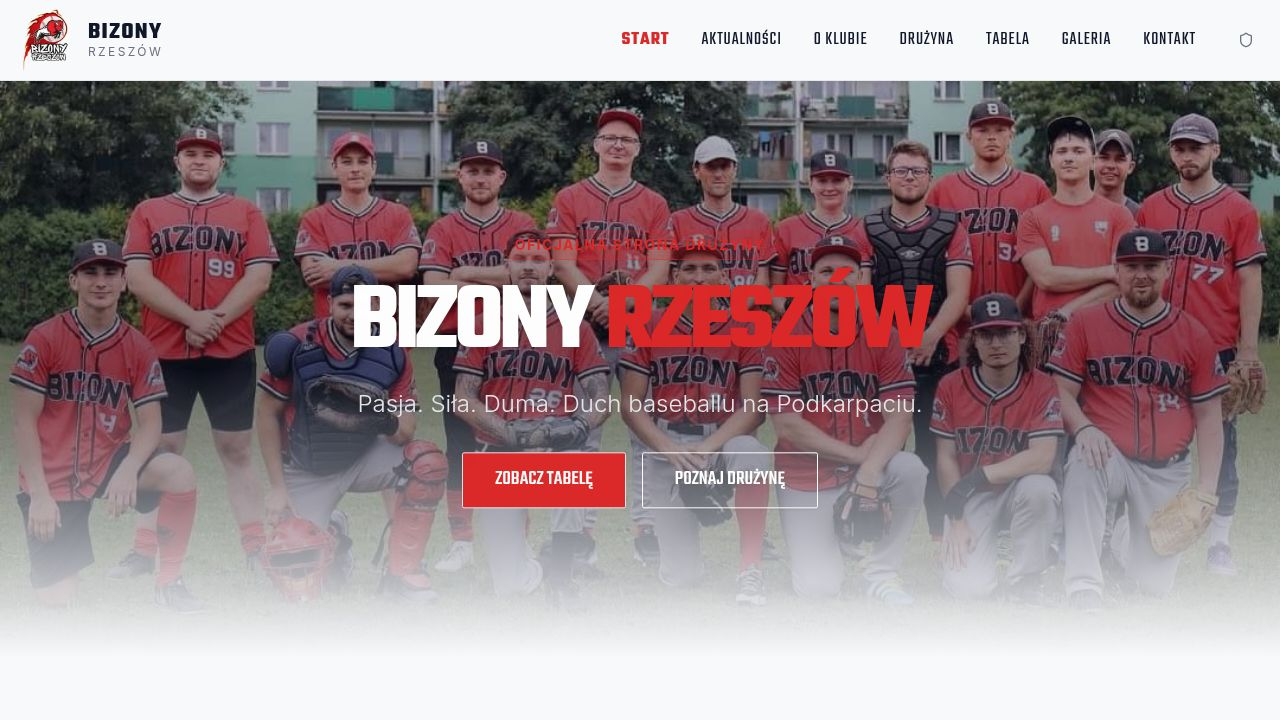
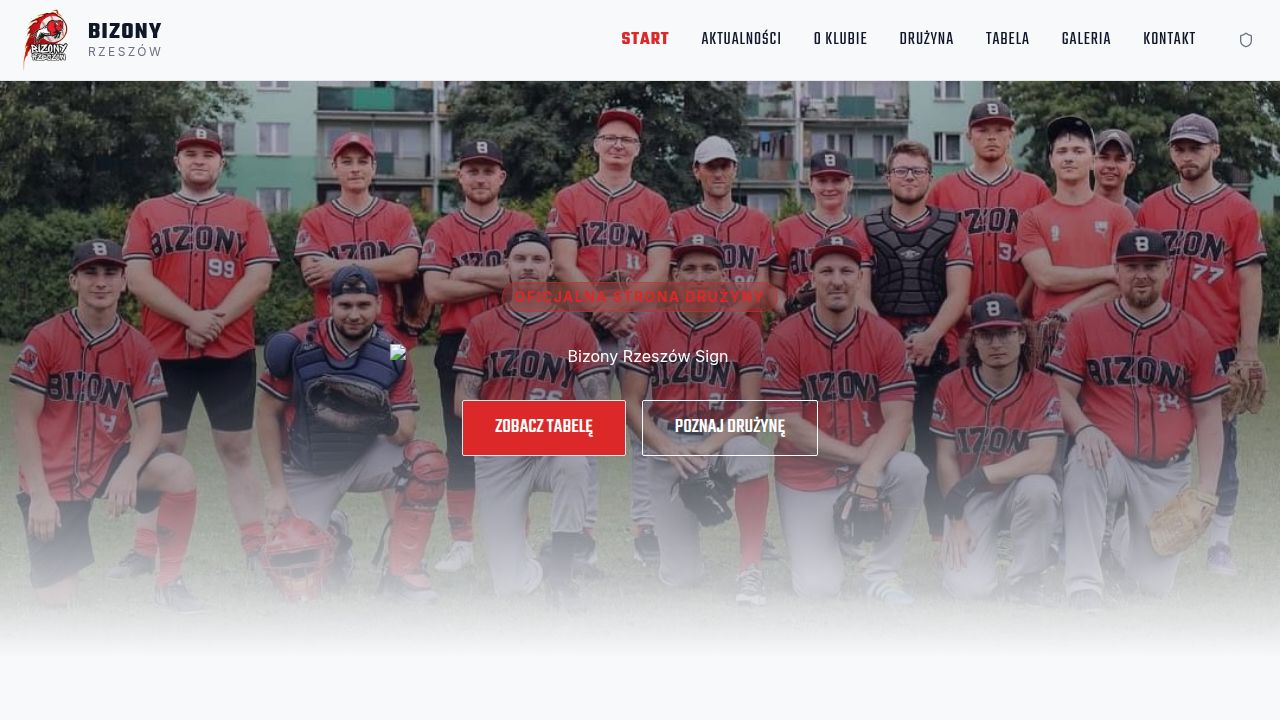
Update homepage hero section with new official sign
Replaces the "Bizony Rzeszów" text with a new logo image in the hero section of the homepage and adjusts the span styling for the tagline.

Replit-Commit-Author: Agent
Replit-Commit-Session-Id: 43685fe8-601e-4607-95e8-7399da8ee240
Replit-Commit-Checkpoint-Type: full_checkpoint
Replit-Commit-Event-Id: e3576450-65ee-4423-b563-832e4bbabf99
Replit-Commit-Screenshot-Url: https://storage.googleapis.com/screenshot-production-us-central1/f80b9050-ae2f-4224-8ab7-2b6be34f3b78/43685fe8-601e-4607-95e8-7399da8ee240/TfAEgsb
Replit-Helium-Checkpoint-Created: true

Changed region(s): [[0.25, 0.3056, 0.75, 0.5194], [0.2812, 0.55, 0.7188, 0.7333]]

diff --git a/client/src/pages/Home.tsx b/client/src/pages/Home.tsx
@@ -5,6 +5,7 @@ import { Card, CardContent } from "@/components/ui/card";
 import { ArrowRight, Calendar, Trophy } from "lucide-react";
 import heroImg from "@assets/1771073775355_1771144286177.jpg";
 import logo from "@assets/bizony--rSs6oZ4_1770847193876.webp";
+import mainSign from "@assets/BIZONY-_4__1771227737965.webp";
 import { motion } from "framer-motion";
 
 export default function Home() {
@@ -31,15 +32,16 @@ export default function Home() {
             animate={{ opacity: 1, y: 0 }}
             transition={{ duration: 0.8 }}
           >
-            <span className="inline-block py-1 px-3 border border-primary/50 bg-primary/20 text-primary backdrop-blur-md rounded-full text-sm font-bold uppercase tracking-widest mb-4">
+            <span className="inline-block py-1 px-3 border border-primary/50 bg-primary/20 text-primary backdrop-blur-md rounded-full text-sm font-bold uppercase tracking-widest mb-8">
               Oficjalna Strona Drużyny
             </span>
-            <h1 className="text-6xl md:text-8xl font-display font-bold uppercase tracking-tighter drop-shadow-lg">
-              Bizony <span className="text-primary">Rzeszów</span>
-            </h1>
-            <p className="text-xl md:text-2xl font-light text-gray-200 max-w-2xl mx-auto mt-4 mb-8">
-              Pasja. Siła. Duma. Duch baseballu na Podkarpaciu.
-            </p>
+            <div className="flex justify-center mb-8">
+              <img 
+                src={mainSign} 
+                alt="Bizony Rzeszów Sign" 
+                className="max-w-[300px] md:max-w-[500px] w-full h-auto drop-shadow-[0_0_20px_rgba(255,255,255,0.3)]"
+              />
+            </div>
             <div className="flex flex-col sm:flex-row gap-4 justify-center">
               <Link href="/standings">
                 <Button size="lg" className="bg-primary hover:bg-primary/90 text-white font-display text-xl uppercase px-8 h-14">
